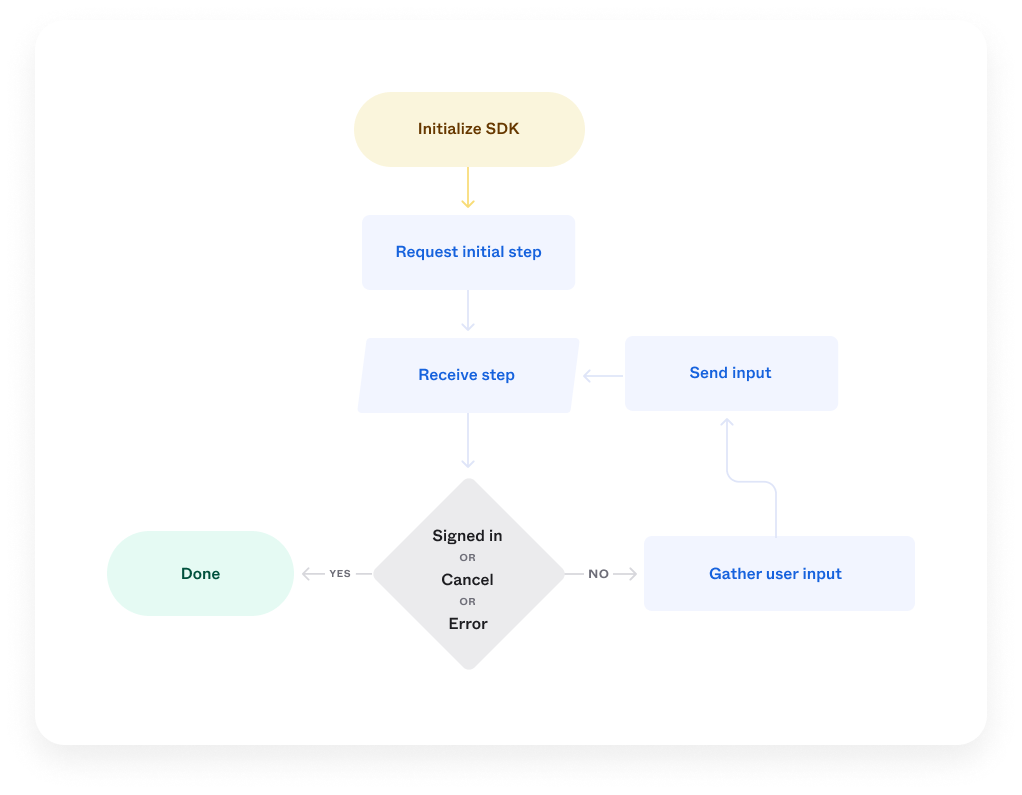
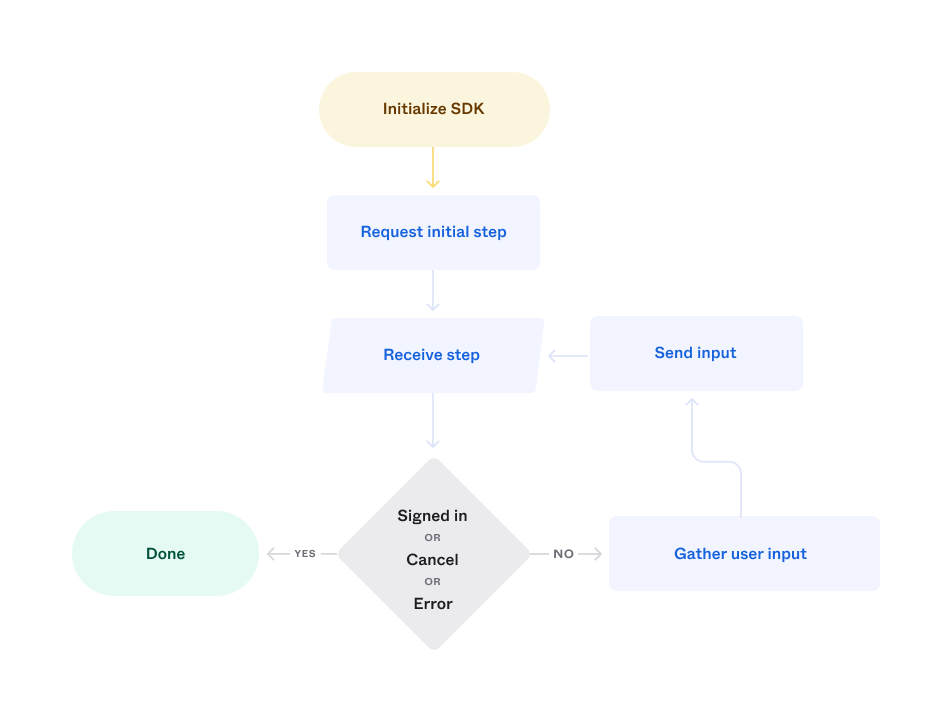
Removed drop shadows from Mobile IDX Overview Added bordered-image CSS style Added alt text to images, removed titles

diff --git a/packages/@okta/vuepress-site/docs/guides/mobile-idx-sdk-overview/main/index.md b/packages/@okta/vuepress-site/docs/guides/mobile-idx-sdk-overview/main/index.md
@@ -23,9 +23,9 @@ Okta supports many ways of authenticating the identity of a user during the sign
 
 The Android and iOS Identity Engine SDKs represent the sign-in flow as a state machine. You initialize the machine with the details of your Okta org app integration, request the initial step in the flow, and cycle through responding to steps until either the user signs in, cancels, or an error occurs.
 
-<div class="common-image-format">
+<div class="common-image-format bordered-image">
 
-![](/img/mobile-sdk/mobile-idx-basic-flow.png "A diagram that shows the sign-in flow.")
+!["A diagram that shows the sign-in flow."](/img/mobile-sdk/mobile-idx-basic-flow.png)
 
 </div>
 
@@ -39,9 +39,9 @@ Each sign-in step may include one or more possible user actions, such as:
 
 The SDK represents the sign-in flow using a number of different objects:
 
-<div class="common-image-format">
+<div class="common-image-format bordered-image">
 
-![](/img/mobile-sdk/mobile-idx-basic-objects.png "A diagram that shows the SDK objects for the sign in flow and the relationships between them.")
+!["A diagram that shows the SDK objects for the sign in flow and the relationships between them."](/img/mobile-sdk/mobile-idx-basic-objects.png)
 
 </div>
 
@@ -58,9 +58,9 @@ The SDK represents the sign-in flow using a number of different objects:
 
 ## Objects and the flow
 
-<div class="common-image-format">
+<div class="common-image-format bordered-image">
 
-![](/img/mobile-sdk/mobile-idx-objects-and-flow.png "A diagram that shows the main objects associated with each stepp in the sign-in flow.")
+!["A diagram that shows the main objects associated with each stepp in the sign-in flow."](/img/mobile-sdk/mobile-idx-objects-and-flow.png)
 
 </div>
 
